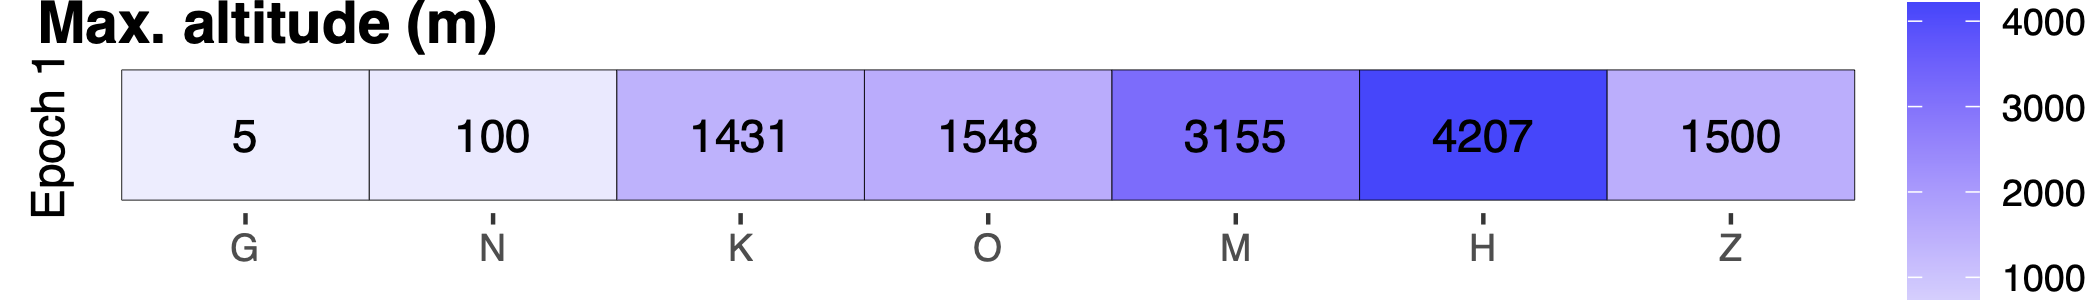
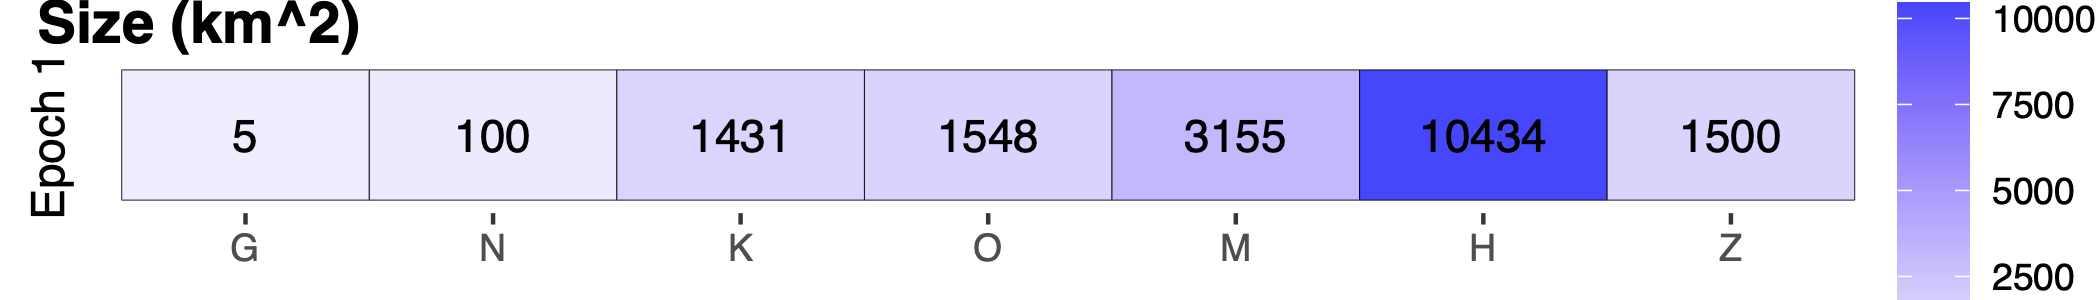
update multifig to use size km^2

Changed region(s): [[0.2786, 0.21, 0.65, 0.69], [0.681, 0.0, 1.0, 1.0], [0.0, 0.0, 0.2476, 0.18]]

diff --git a/tutorials/multifig/index.md b/tutorials/multifig/index.md
@@ -30,7 +30,7 @@ Graphical model of MultiFIG. Square nodes represent constant values (data). Circ
 
 The FIG model incorporates geographical features with two value types as model variables: quantitative features and categorical features. Quantitative features have continuous real values while categorical features have discrete values. MultiFIG also separates data by dimensionality type, incorporating one-dimensional within-region data and two-dimensional between-region data. We use four containers to store this data: $w_c$, $w_q$, $b_c$, and $b_q$.
 
-Each regional feature is assigned a "feature effect" parameter that measures the strength and direction of the effect of a particular feature on a particular process. Note that "effect" refers to a mathematical relationship here, but does *not* indicate causality. These strength parameters are referred to as $\sigma$ and $\phi$, representing the effects of categorical and quantitative features respectively. There is one $\sigma$ or $\phi$ parameter per feature per process. For example, $\phi_w^{Altitude}$ would represent the relationship between region altitude and within-region speciation.
+Each regional feature is assigned a "feature effect" parameter that measures the strength and direction of the effect of a particular feature on a particular process. Note that "effect" refers to a mathematical relationship here, but does *not* indicate causality. These strength parameters are referred to as $\sigma$ and $\phi$, representing the effects of categorical and quantitative features respectively. There is one $\sigma$ or $\phi$ parameter per feature per process. For example, $\phi_w^{Size}$ would represent the relationship between region size and within-region speciation.
 
 For each process, the categorical and quantitative feature effects (with feature data modified by strength parameters) are gathered into $c$ and $q$ vectors, then ultimately combined into an $m$ vector. The $m$ vector represents the total effects of all regional features on a particular process, with entries representing each region (or region pair for between-region processes). The $m$ vector represents relative rates among regions, but to obtain absolute rates, the $m$ vector for each process is multiplied by a process-specific base rate parameter $\rho$. This constructs the $r$ vectors that are analogous to GeoSSE rates: $r_w$ for within-region speciation rates, $r_e$ for extinction rates, and $r_d$ for dispersal rates. Calculating $r_b$ for between-region speciation rates also requires the use of a range split score, as in {% cite Landis2022 %}. 
 
@@ -70,14 +70,14 @@ and behaves similarly to the quantitative effect variable. (In this example, we 
 
 Each individual effect variable can be $<1$, $>1$, or $=1$, and so can the product of all effect variables. All relative rates are eventually rescaled by the same base rate (e.g. $\rho_w$). If the relative rates for regions $i$ and $j$ have the relationship $m_w(i) > m_w(j)$ then the absolute rates also follow $r_w(i) > r_w(j)$. Other $m$ functions behave in a similar manner. More details on the design of the $m$ functions are provided in {% cite Swiston2025 %}.
 
-In this analysis, we are examining eight regional features. The first 4 are quantitative: maximum altitude (m), log maximum altitude (m), distance (km), and log distance (km). We include the log features because they will allow us to better understand the *shape* of the relationship between features and processes. For example, it may be that intermediate values of a particular feature are related to the highest rates of a particular process, so we would expect the feature strength parameter to be positive and the log-feature strength parameter to be negative. The other 4 features are categorical: age class (old/young), growth class (decay/growth), dispersal class (short/long), and relative age class (older/younger).
+In this analysis, we are examining eight regional features. The first 4 are quantitative: size (km^2), log size (km^2), distance (km), and log distance (km). We include the log features because they will allow us to better understand the *shape* of the relationship between features and processes. For example, it may be that intermediate values of a particular feature are related to the highest rates of a particular process, so we would expect the feature strength parameter to be positive and the log-feature strength parameter to be negative. The other 4 features are categorical: age class (old/young), growth class (decay/growth), dispersal class (short/long), and relative age class (older/younger).
 
 {% figure features %}
 <img src="figures/plot_features_vs_time.feat_qw1.png" width="40%"><br>
 <img src="figures/plot_features_vs_time.feat_qb1.png" width="40%"><br>
 <img src="figures/plot_features_vs_time.feat_cb2.png" width="40%">
 {% figcaption %}
-Examples of a within-region quantitative feature (max. altitude), a between-region quantitative feature (distance), and a categorical quantitative feature (relative island age). These features (and others) may shape core biogeographic rates depending on which regions are involved in an event.
+Examples of a within-region quantitative feature (area), a between-region quantitative feature (distance), and a categorical quantitative feature (relative island age). These features (and others) may shape core biogeographic rates depending on which regions are involved in an event.
 {% endfigcaption %}
 {% endfigure %}
 
